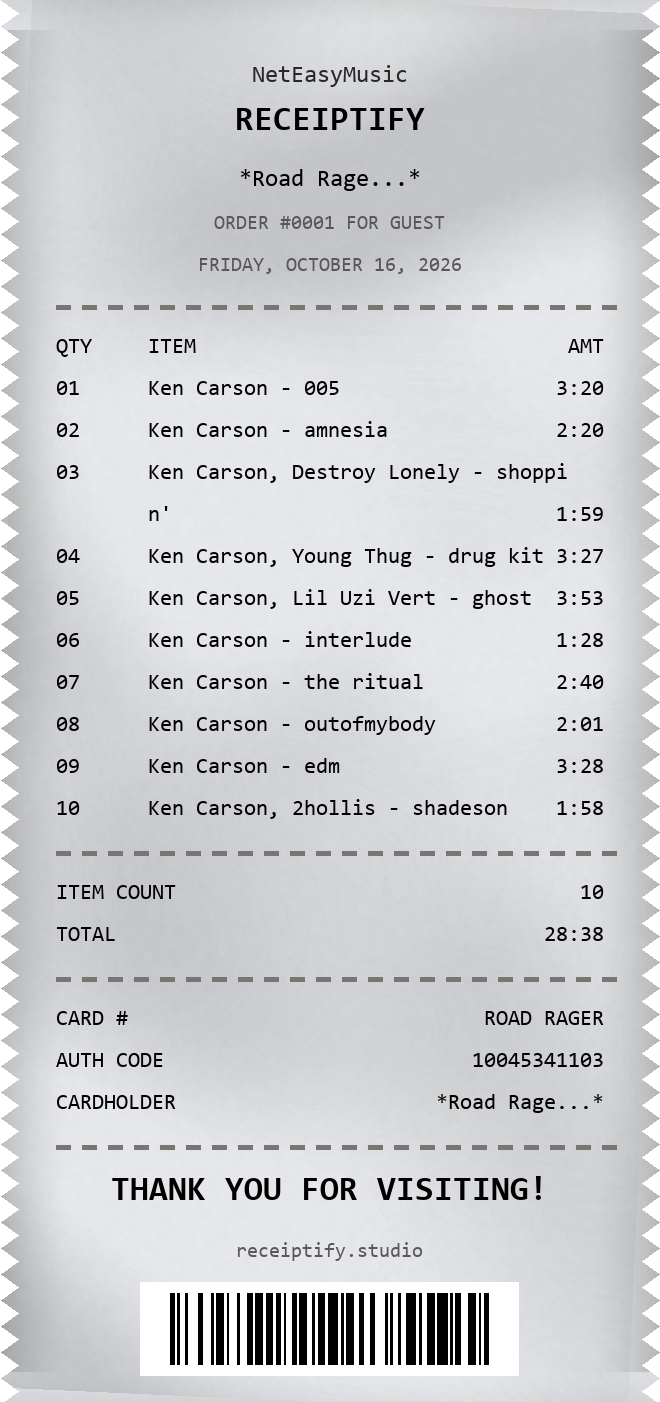
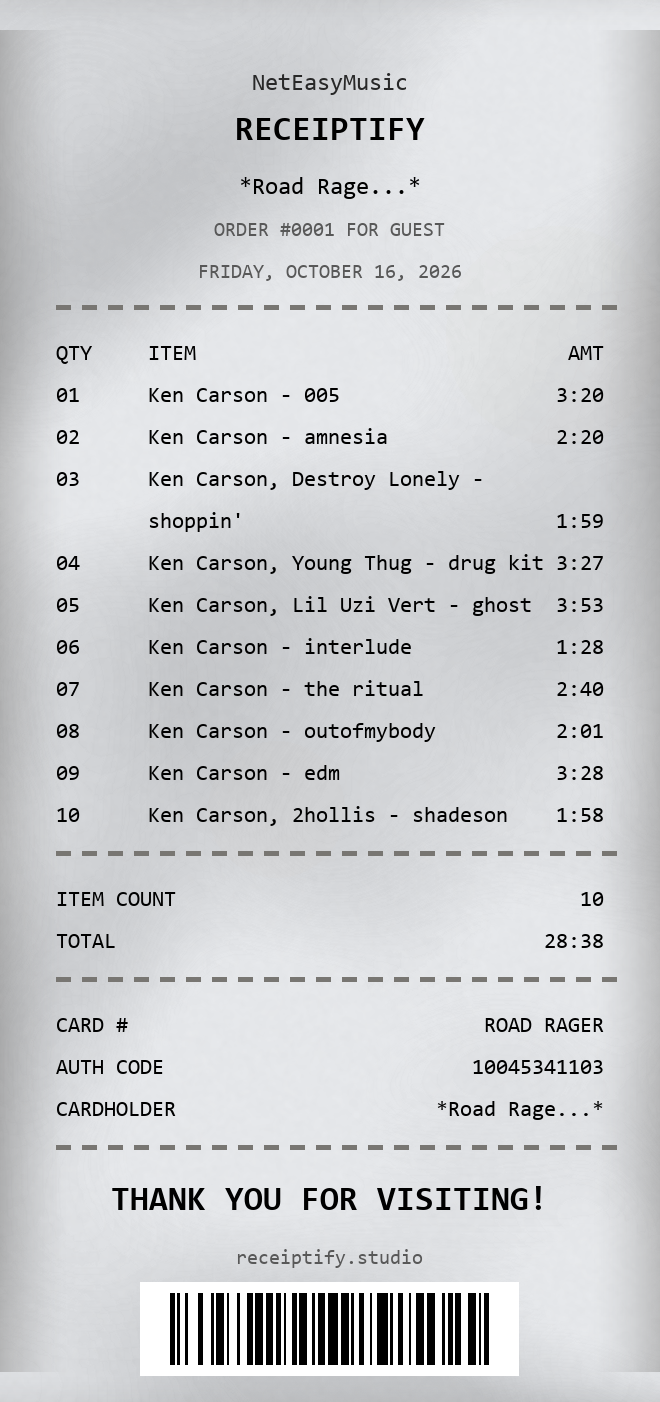
feat: replace torn zigzag edges with clean straight edges and refresh README

diff --git a/receipt_render.py b/receipt_render.py
@@ -169,7 +169,7 @@ def _draw_mixed(draw, xy, text, mono_font, cjk_font, fill, probe):
 
 
 # ============================================================
-# 四、锯齿撕边蒙版（复古小票的灵魂）
+# 四、边缘蒙版（当前版本：平直直线；如需复古锯齿撕边可调用 _zigzag_mask）
 # ============================================================
 def _zigzag_mask(width: int, height: int, tooth_h: int = 26, tooth_w: int = 18) -> Image.Image:
     """
@@ -637,10 +637,10 @@ def render_receipt(text: str) -> Image.Image:
     # 超出部分填充为黑色（就是之前小票底部"长方形黑边"的来源）
     img = img.crop((0, 0, canvas_w, min(y + margin, total_h)))
 
-    # ---------- 应用锯齿撕边蒙版，输出 RGBA ----------
+    # ---------- 输出 RGBA：边缘为平直直线（不再应用锯齿撕边蒙版） ----------
     w, h = img.size
     rgba = img.convert("RGBA")
-    rgba.putalpha(_zigzag_mask(w, h))
+    rgba.putalpha(Image.new("L", (w, h), 255))   # 全不透明 = 平直边缘
     return rgba
 
 

diff --git a/README.md b/README.md
@@ -3,8 +3,8 @@
 把网易云 / QQ音乐 / Spotify / Apple Music 歌单、iTunes 搜索、手动输入的歌单，渲染成一张**像用手机拍的复古热敏打印小票**的长图 PNG。
 Turn playlists from NetEase Music / QQ Music / Spotify / Apple Music, iTunes search, or manual input into a **retro thermal-print receipt** long-image (PNG) that looks like it was photographed.
 
-纸面带有做旧复古质感（柔和纸纹 + 撕边锯齿 + 条形码 + 等宽打印体），一键导出长图。
-The paper carries a worn, vintage look (soft paper texture + torn perforated edges + barcode + monospace type) — all in one click.
+纸面带有做旧复古质感（柔和纸纹 + 平直边缘 + 条形码 + 等宽打印体），一键导出长图。
+The paper carries a worn, vintage look (soft paper texture + clean straight edges + barcode + monospace type) — all in one click.
 
 ![效果示例 / Preview](docs/screenshot.png)
 
@@ -18,7 +18,7 @@ The paper carries a worn, vintage look (soft paper texture + torn perforated edg
 
 - **多种导入方式**：粘贴网易云 / QQ音乐 / Spotify / Apple Music 歌单（或网易云单曲）链接、搜索 iTunes、手动输入文本
 - **中转蓄水池架构**：网络抓取的数据只以纯文本写入文本框，你可以在渲染前任意增删改；即使断网也能手动打字继续使用
-- **做旧纸面质感**：程序化叠加柔和纸纹与轻微做旧阴影，每次渲染随机分布；撕边锯齿、条形码、等宽字体、超长歌名自动换行（时长跟随末行）、固定宽度版式
+- **做旧纸面质感**：程序化叠加柔和纸纹与轻微做旧阴影，每次渲染随机分布；平直边缘、条形码、等宽字体、超长歌名自动换行（时长跟随末行）、固定宽度版式
 - **完整可变字段**：标题 / 订单 / 日期 / 歌曲表 / 统计 / CARD# / AUTH CODE / CARDHOLDER / 平台名——全部随导入数据生成，也可手动改
 - **纯本地运行**：不上传任何数据；一键打包为单个 exe
 
@@ -108,7 +108,7 @@ MIT © 2026 OhRUA
 
 - **Multiple input methods**: paste a playlist link from NetEase Music / QQ Music / Spotify / Apple Music (or a NetEase song link), search iTunes, or type text manually
 - **Reservoir-textbox architecture**: fetched data enters the UI as plain text only, so you can edit everything before rendering — and the app keeps working offline
-- **Worn paper texture**: programmatic soft paper grain and subtle aged shading, randomly distributed per render; torn perforated edges, barcode, monospace fonts, long titles auto-wrap (duration aligns with the last line), fixed-width layout
+- **Worn paper texture**: programmatic soft paper grain and subtle aged shading, randomly distributed per render; clean straight edges, barcode, monospace fonts, long titles auto-wrap (duration aligns with the last line), fixed-width layout
 - **Fully editable fields**: title / order / date / song table / totals / CARD# / AUTH CODE / CARDHOLDER / platform — all generated from your imported data, all manually editable
 - **100% local**: no data is uploaded; package into a single exe with one command
 
